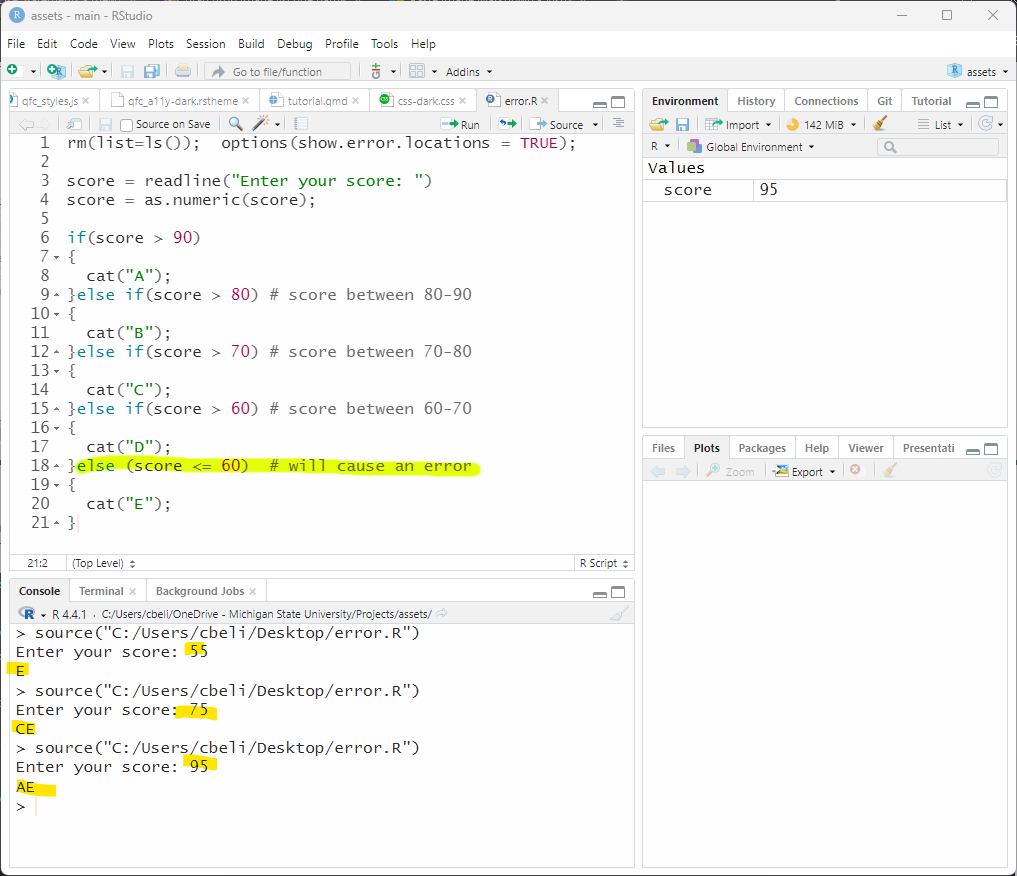
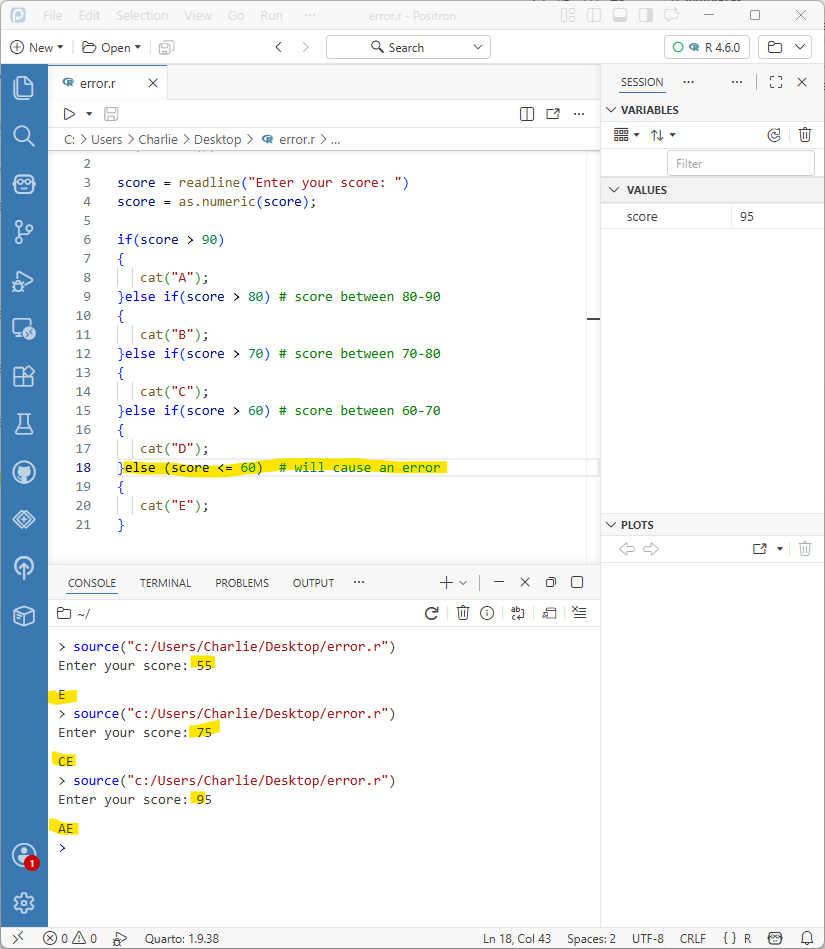
Lesson 1-09 up

diff --git a/docs/lessons-new/1-09_If_Else_Statements.html b/docs/lessons-new/1-09_If_Else_Statements.html
@@ -486,7 +486,7 @@ pre > code.sourceCode > span > a:first-child::before { text-decoration: underlin
   <ul class="collapse">
   <li><a href="#the-efficiency-of-if-else-if-structures" id="toc-the-efficiency-of-if-else-if-structures" class="nav-link" data-scroll-target="#the-efficiency-of-if-else-if-structures"><span class="header-section-number">6.1</span> The efficiency of if-else-if structures</a></li>
   </ul></li>
-  <li><a href="#the-error-or-everything-else-condition" id="toc-the-error-or-everything-else-condition" class="nav-link" data-scroll-target="#the-error-or-everything-else-condition"><span class="header-section-number">7</span> The error or everything else condition</a>
+  <li><a href="#the-error-or-everything-else-condition" id="toc-the-error-or-everything-else-condition" class="nav-link" data-scroll-target="#the-error-or-everything-else-condition"><span class="header-section-number">7</span> The error, or everything else, condition</a>
   <ul class="collapse">
   <li><a href="#error-statement-help-in-debugging" id="toc-error-statement-help-in-debugging" class="nav-link" data-scroll-target="#error-statement-help-in-debugging"><span class="header-section-number">7.1</span> Error statement help in debugging</a></li>
   </ul></li>
@@ -497,12 +497,14 @@ pre > code.sourceCode > span > a:first-child::before { text-decoration: underlin
   <li><a href="#application" id="toc-application" class="nav-link" data-scroll-target="#application"><span class="header-section-number">9</span> Application</a>
   <ul class="collapse">
   <li><a href="#questions-to-answer" id="toc-questions-to-answer" class="nav-link" data-scroll-target="#questions-to-answer"><span class="header-section-number">9.1</span> Questions to answer</a></li>
+  <li><a href="#upload-changes-to-github" id="toc-upload-changes-to-github" class="nav-link" data-scroll-target="#upload-changes-to-github"><span class="header-section-number">9.2</span> Upload changes to GitHub</a></li>
   </ul></li>
-  <li><a href="#trap-true-and-false-are-keywords-t-and-f-are-not" id="toc-trap-true-and-false-are-keywords-t-and-f-are-not" class="nav-link" data-scroll-target="#trap-true-and-false-are-keywords-t-and-f-are-not"><span class="header-section-number">10</span> Trap: TRUE and FALSE are keywords, T and F are not</a></li>
-  <li><a href="#extension-brackets-and-code-blocks" id="toc-extension-brackets-and-code-blocks" class="nav-link" data-scroll-target="#extension-brackets-and-code-blocks"><span class="header-section-number">11</span> Extension: brackets and code blocks</a></li>
-  <li><a href="#extension-skipping-brackets-in-if-else-structures" id="toc-extension-skipping-brackets-in-if-else-structures" class="nav-link" data-scroll-target="#extension-skipping-brackets-in-if-else-structures"><span class="header-section-number">12</span> Extension: Skipping brackets in if-else structures</a></li>
-  <li><a href="#trap-else-never-has-an-attached-condition" id="toc-trap-else-never-has-an-attached-condition" class="nav-link" data-scroll-target="#trap-else-never-has-an-attached-condition"><span class="header-section-number">13</span> Trap: else never has an attached condition</a></li>
-  <li><a href="#extension-programming-standards-for-if-else-statements" id="toc-extension-programming-standards-for-if-else-statements" class="nav-link" data-scroll-target="#extension-programming-standards-for-if-else-statements"><span class="header-section-number">14</span> Extension: Programming standards for if-else statements</a></li>
+  <li><a href="#extension-create-an-issue-in-github" id="toc-extension-create-an-issue-in-github" class="nav-link" data-scroll-target="#extension-create-an-issue-in-github"><span class="header-section-number">10</span> Extension: Create an issue in GitHub</a></li>
+  <li><a href="#trap-true-and-false-are-keywords-t-and-f-are-not" id="toc-trap-true-and-false-are-keywords-t-and-f-are-not" class="nav-link" data-scroll-target="#trap-true-and-false-are-keywords-t-and-f-are-not"><span class="header-section-number">11</span> Trap: TRUE and FALSE are keywords, T and F are not</a></li>
+  <li><a href="#extension-brackets-and-code-blocks" id="toc-extension-brackets-and-code-blocks" class="nav-link" data-scroll-target="#extension-brackets-and-code-blocks"><span class="header-section-number">12</span> Extension: brackets and code blocks</a></li>
+  <li><a href="#extension-skipping-brackets-in-if-else-structures" id="toc-extension-skipping-brackets-in-if-else-structures" class="nav-link" data-scroll-target="#extension-skipping-brackets-in-if-else-structures"><span class="header-section-number">13</span> Extension: Skipping brackets in if-else structures</a></li>
+  <li><a href="#trap-else-never-has-an-attached-condition" id="toc-trap-else-never-has-an-attached-condition" class="nav-link" data-scroll-target="#trap-else-never-has-an-attached-condition"><span class="header-section-number">14</span> Trap: else never has an attached condition</a></li>
+  <li><a href="#extension-programming-standards-for-if-else-statements" id="toc-extension-programming-standards-for-if-else-statements" class="nav-link" data-scroll-target="#extension-programming-standards-for-if-else-statements"><span class="header-section-number">15</span> Extension: Programming standards for if-else statements</a></li>
   </ul>
 </nav>
 </nav>
@@ -555,7 +557,7 @@ pre > code.sourceCode > span > a:first-child::before { text-decoration: underlin
 </section>
 <section id="dealing-with-false-conditions" class="level2" data-number="3">
 <h2 data-number="3" class="anchored" data-anchor-id="dealing-with-false-conditions"><span class="header-section-number">3</span> Dealing with FALSE conditions</h2>
-<p>In the last lesson we looked at execution of the <strong><em>if()</em></strong> statement and how it changes the flow of a script.&nbsp; <strong><em>if()</em></strong> statements contain a conditional statement inside the parenthesis and an attached codeblock surrounded by curly brackets ( <strong><em>{ }</em></strong> ).&nbsp; The codeblock is only executed if the conditional statement is <strong><em>TRUE</em></strong>.&nbsp;</p>
+<p>In the last lesson we looked at execution of the <strong><em>if()</em></strong> statement and how it changes the flow of a script.&nbsp; <strong><em>if()</em></strong> statements contain a conditional statement inside the parentheses and an attached codeblock surrounded by curly brackets ( <strong><em>{ }</em></strong> ).&nbsp; The codeblock is only executed if the conditional statement is <strong><em>TRUE</em></strong>.&nbsp;</p>
 <div class="code-copy-outer-scaffold"><div class="sourceCode" id="cb1"><pre class="sourceCode r code-with-copy"><code class="sourceCode r"><span id="cb1-1"><a href="#cb1-1" aria-hidden="true" tabindex="-1"></a>randomNum <span class="ot">=</span> <span class="fu">sample</span>(<span class="dv">1</span><span class="sc">:</span><span class="dv">100</span>, <span class="at">size=</span><span class="dv">1</span>);</span>
 <span id="cb1-2"><a href="#cb1-2" aria-hidden="true" tabindex="-1"></a></span>
 <span id="cb1-3"><a href="#cb1-3" aria-hidden="true" tabindex="-1"></a><span class="cf">if</span>(randomNum <span class="sc">&gt;</span> <span class="dv">50</span>)  <span class="co"># execute the attached codeblock if TRUE</span></span>
@@ -732,13 +734,13 @@ Figure&nbsp;5: The inefficient way to check opposite conditions – using only <
 <p>But there are two problems with the code above:</p>
 <ul>
 <li><p>You are executing code that you know does not need to be executed.&nbsp; <strong><em>Sunny</em></strong> and <strong><em>Not Sunny</em></strong> are mutually exclusive – there is no need for the script to check both.&nbsp; This extra check adds a little bit to the script’s execution time and this can make a difference if you are checking 100,000 values in a data frame.</p></li>
-<li><p>An <strong><em>if-else</em></strong> statement is easier to debug than two individual <strong><em>if()</em></strong> statements because you only need to debug one conditional statement – as opposed to two.</p></li>
+<li><p>An <strong><em>if-else</em></strong> statement is easier to debug than two individual <strong><em>if()</em></strong> statements because there is only one conditional statement to debug (as opposed to two).</p></li>
 </ul>
 </section>
 </section>
 <section id="adding-in-more-conditions-if-else-if-structures" class="level2" data-number="6">
 <h2 data-number="6" class="anchored" data-anchor-id="adding-in-more-conditions-if-else-if-structures"><span class="header-section-number">6</span> Adding in more conditions: if-else-if Structures</h2>
-<p>We are limited to two outcomes when using <strong><em>if-else</em></strong> structures: (a) the <strong><em>if()</em></strong> condition is <strong><em>TRUE</em></strong> or (b) The <strong><em>if()</em></strong> condition is <strong><em>FALSE</em></strong>.&nbsp; However, the examples above contain situations that could easily have more than two possible condition.&nbsp; For instance, the <strong><em>noonCondition</em></strong> can be “Sunny”, “Cloudy”, or “Rain” – and we can check for all three in an <strong><em>if-else-if</em></strong> structure.</p>
+<p>We are limited to two outcomes when using <strong><em>if-else</em></strong> structures: (a) the <strong><em>if()</em></strong> condition is <strong><em>TRUE</em></strong> or (b) The <strong><em>if()</em></strong> condition is <strong><em>FALSE</em></strong>.&nbsp; However, the examples above contain situations that could easily have more than two possible conditions.&nbsp; For instance, <strong><em>noonCondition</em></strong> can be “Sunny”, “Cloudy”, or “Rain” – and we can check for all three in an <strong><em>if-else-if</em></strong> structure.</p>
 <p>&nbsp;</p>
 <p>With an <strong><em>if-else-if</em></strong> structure you can check as many mutually exclusive situations as you want.</p>
 <div id="fig-multConditions" class="quarto-float quarto-figure quarto-figure-left anchored">
@@ -770,10 +772,12 @@ Figure&nbsp;6: Check multiple conditions using an if-else-if structure
 </section>
 </section>
 <section id="the-error-or-everything-else-condition" class="level2" data-number="7">
-<h2 data-number="7" class="anchored" data-anchor-id="the-error-or-everything-else-condition"><span class="header-section-number">7</span> The error or everything else condition</h2>
+<h2 data-number="7" class="anchored" data-anchor-id="the-error-or-everything-else-condition"><span class="header-section-number">7</span> The error, or everything else, condition</h2>
 <p>We often want to execute something for values we have not prepared for.&nbsp; For instance, a phone system might have menu options numbered <strong>1</strong> through <strong>5</strong>.&nbsp; If the user presses <strong>7</strong>, the system will usually have a message saying something like “sorry, <strong>7</strong> is not an option”.</p>
 <p>&nbsp;</p>
-<p>The problem with the script above is that it does nothing if the condition for the day is not given anywhere in the <strong><em>if-else-if</em></strong> structure (i.e., all the conditional statements are <strong>FALSE</strong>). In an <strong><em>if-else-if</em></strong> structure you cannot anticipate everything that somebody will input into a dataframe – let alone all of the errant spellings.&nbsp; To resolve this, we create what is often referred to as an <span class="hl">error condition</span><em>,</em> meaning we set up a codeblock that gets executed if none of the conditions in the <strong><em>if-else-if</em></strong> structure are <strong><em>TRUE</em></strong>.&nbsp; This error codeblock gets attached at the end to an <strong><em>else</em></strong> statement.</p>
+<p>The problem with the script above is that it does nothing if the condition for the day is not given anywhere in the <strong><em>if-else-if</em></strong> structure (i.e., all the conditional statements are <strong>FALSE</strong> <em>-</em> perhaps the condition was <strong><em>Fog</em></strong>).</p>
+<p>&nbsp;</p>
+<p>In an <strong><em>if-else-if</em></strong> structure you cannot anticipate everything that somebody will input into a dataframe – let alone all of the errant spellings.&nbsp; To resolve this, we create what is often referred to as an <span class="hl">error condition</span><em>,</em> meaning we set up a codeblock that gets executed if none of the conditions in the <strong><em>if-else-if</em></strong> structure are <strong><em>TRUE</em></strong>.&nbsp; This error codeblock gets attached at the end to an <strong><em>else</em></strong> statement.</p>
 <div id="fig-errorCondition" class="quarto-float quarto-figure quarto-figure-left anchored">
 <figure class="quarto-float quarto-float-fig figure">
 <div aria-describedby="fig-errorCondition-caption-0ceaefa1-69ba-4598-a22c-09a6ac19f8ca">
@@ -796,12 +800,12 @@ Figure&nbsp;7: Adding an error condition to the if-else-if structure
 </figcaption>
 </figure>
 </div>
-<p>Since we have an <strong><em>else</em></strong> statement at the end, there is guaranteed to be a response from the script no matter what <strong><em>noonCond</em></strong> is:</p>
+<p>The <strong><em>else</em></strong> statement guarantees a response from the script – no matter what <strong><em>noonCond</em></strong> is:</p>
 <div class="code-copy-outer-scaffold"><div class="sourceCode" id="cb13" data-tab="Console"><pre class="sourceCode r code-with-copy"><code class="sourceCode r"><span id="cb13-1"><a href="#cb13-1" aria-hidden="true" tabindex="-1"></a>Checking day <span class="dv">5</span> against multiple conditions<span class="sc">:</span></span>
 <span id="cb13-2"><a href="#cb13-2" aria-hidden="true" tabindex="-1"></a>  The condition <span class="cf">for</span> day <span class="dv">5</span>, Fog, is invalid</span></code></pre></div><button title="Copy to Clipboard" class="code-copy-button"><i class="bi"></i></button></div>
 <section id="error-statement-help-in-debugging" class="level3" data-number="7.1">
 <h3 data-number="7.1" class="anchored" data-anchor-id="error-statement-help-in-debugging"><span class="header-section-number">7.1</span> Error statement help in debugging</h3>
-<p>Adding the error statement also helps you debug your code.&nbsp; In this case, the error statement tells you that some value (Fog) does not meet any of the conditions and you can use the codeblock attached to the <strong><em>else</em></strong> statement to provide useful information about what went wrong – and perhaps suggest a fix.</p>
+<p>Adding the error statement also helps you debug your code.&nbsp; In this case, the error statement tells you that some value does not meet any of your conditions. The codeblock attached to the <strong><em>else</em></strong> statement can be used to provide useful information about what went wrong – and perhaps suggest a fix.</p>
 </section>
 </section>
 <section id="creating-number-ranges-using-if-else-structures" class="level2" data-number="8">
@@ -836,9 +840,9 @@ Figure&nbsp;8: Create number ranges with an if-else-if structure
 <span id="cb15-2"><a href="#cb15-2" aria-hidden="true" tabindex="-1"></a>  That temperature is about right <span class="cf">for</span> April<span class="sc">!</span></span></code></pre></div><button title="Copy to Clipboard" class="code-copy-button"><i class="bi"></i></button></div>
 <section id="if-else-if-statements-are-mutually-exclusive" class="level3" data-number="8.1">
 <h3 data-number="8.1" class="anchored" data-anchor-id="if-else-if-statements-are-mutually-exclusive"><span class="header-section-number">8.1</span> if-else-if statements are mutually exclusive</h3>
-<p><span class="hl">An <strong>if-else-if</strong> structure ends as soon as a condition is determined to be <strong>TRUE</strong>.</span> This means that at most one codeblock in an <strong><em>if-else-if</em></strong> structure gets executed.&nbsp; In the above example (<a href="#fig-numberRanges" class="quarto-xref">Figure&nbsp;8</a>), if the temperature is 75 (i.e., day 14), the first condition (<strong><em>highTemps[14] &gt; 70</em></strong>) is <strong><em>TRUE</em></strong> and “That is hot for April” is output.&nbsp;<span class="hl">The <strong>if-else-if</strong>&nbsp; ends here and none of the other conditions are checked.</span></p>
+<p>An <strong>if-else-if</strong> structure ends as soon as a condition is determined to be <strong>TRUE</strong>. This means that <span class="hl">at most one codeblock in an <strong><em>if-else-if</em></strong> structure gets executed</span>.&nbsp; In the above example (<a href="#fig-numberRanges" class="quarto-xref">Figure&nbsp;8</a>), if the temperature is 75 (i.e., day 14), the first condition (<strong><em>highTemps[14] &gt; 70</em></strong>) is <strong><em>TRUE</em></strong> and “That is hot for April” is output.&nbsp;The <strong>if-else-if</strong>&nbsp; ends here and none of the other conditions are checked.</p>
 <p>&nbsp;</p>
-<p>The second condition (<strong>highTemp[14] &gt; 60</strong>) would, if checked, also be <strong>TRUE</strong>. But this condition does not get checked because a condition above was already <strong>TRUE</strong> – the <strong><em>if-else-if</em></strong> structure is done executing.</p>
+<p>The second condition (<strong>highTemp[14] &gt; 60</strong>) would, if checked, also be <strong>TRUE</strong>. But this condition does not get checked because a condition above was already <strong>TRUE</strong> – the <strong><em>if-else-if</em></strong> structure stopped there.</p>
 <p>&nbsp;</p>
 <p>Again, in an <strong><em>if-else-if</em></strong> structure, only the codeblock attached to the first <strong><em>TRUE</em></strong> conditional statement gets executed<em>.</em> If none of the conditional statements are <strong><em>TRUE</em></strong> then the codeblock attached to the <strong><em>else</em></strong> statement at the end is executed.</p>
 </section>
@@ -847,7 +851,7 @@ Figure&nbsp;8: Create number ranges with an if-else-if structure
 <h2 data-number="9" class="anchored" data-anchor-id="application"><span class="header-section-number">9</span> Application</h2>
 <p>A) In comments answer: Why can I say that the fourth condition <code>else if(highTemps[3] &gt; 40)</code> in <a href="#fig-numberRanges" class="quarto-xref">Figure&nbsp;8</a> checks <strong><em>only</em></strong> for values between 41 and 50 when the condition is <code>highTemps[3] &gt; 40</code>?</p>
 <p>&nbsp;</p>
-<p>B) In comments answer: Why might it be easier to find errors in a dataset using <strong><em>if-else-if</em></strong> structures vs.&nbsp;just <strong><em>if()</em></strong> statements?</p>
+<p>B) In comments answer: Why might it be easier to find errors in a dataset containing weight values using <strong><em>if-else-if</em></strong> structures vs.&nbsp;just <strong><em>if()</em></strong> statements? Give examples.</p>
 <p>&nbsp;</p>
 <p>C) The following line randomly picks a letter from the vector and saves it to <strong><em>grade</em></strong>:</p>
 <div class="code-copy-outer-scaffold"><div class="sourceCode" id="cb16"><pre class="sourceCode r code-with-copy"><code class="sourceCode r"><span id="cb16-1"><a href="#cb16-1" aria-hidden="true" tabindex="-1"></a>  grade <span class="ot">=</span> <span class="fu">sample</span>(<span class="fu">c</span>(<span class="st">"A"</span>, <span class="st">"B"</span>, <span class="st">"C"</span>, <span class="st">"D"</span>, <span class="st">"E"</span>), <span class="at">size=</span><span class="dv">1</span>);</span></code></pre></div><button title="Copy to Clipboard" class="code-copy-button"><i class="bi"></i></button></div>
@@ -879,11 +883,6 @@ Figure&nbsp;8: Create number ranges with an if-else-if structure
 </ul>
 <p>&nbsp;</p>
 <p>E) Repeat parts C, D, and E from the application in last lesson (<a href="1-08_Conditional_Operations.html#application" target="_blank">1-08: Conditional Operations</a>) using <strong><em>if-else</em></strong> statements.&nbsp;<span class="note">Note: there are a few different ways to do this.</span></p>
-<p>&nbsp;</p>
-<p>Save the script as&nbsp;<strong><em>app1-09.r</em></strong> in your&nbsp;<strong><em>scripts</em></strong> folder and&nbsp; email your Project Folder to Charlie Belinsky at [email redacted].</p>
-<p>&nbsp;</p>
-<p><a href="1-01-RStudioProjectsSetup.html#sec-zip-folder" target="_blank">Instructions for zipping the Project Folder are here.</a></p>
-<p>&nbsp;</p>
 <p>If you have any questions regarding this application, feel free to email them to Charlie Belinsky at [email redacted].</p>
 <section id="questions-to-answer" class="level3" data-number="9.1">
 <h3 data-number="9.1" class="anchored" data-anchor-id="questions-to-answer"><span class="header-section-number">9.1</span> Questions to answer</h3>
@@ -894,26 +893,70 @@ Figure&nbsp;8: Create number ranges with an if-else-if structure
 <li><p>What are some things you would like to know more about that is related to, but not covered in, this lesson?</p></li>
 </ol>
 </section>
+<section id="upload-changes-to-github" class="level3" data-number="9.2">
+<h3 data-number="9.2" class="anchored" data-anchor-id="upload-changes-to-github"><span class="header-section-number">9.2</span> Upload changes to GitHub</h3>
+<ol type="1">
+<li><p>In <strong><em>Source Control</em></strong> tab, under <strong><em>Changes</em></strong> click ( + ): <strong><em>Stage All Changes</em></strong></p>
+<ul>
+<li>All changed files will now be listed under <strong><em>Staged Changes</em></strong></li>
+</ul></li>
+<li><p>Add a message “App1-09 finished”</p></li>
+<li><p>Click <strong><em>Commit</em></strong></p></li>
+<li><p>The Commit button will become a Sync button, click <strong><em>Sync</em></strong></p></li>
+<li><p>Email [email redacted] with the message that application 1-09 is finished <strong><em>OR</em></strong> <a href="#extension-create-an-issue-in-github">Extension: Create an issue in GitHub</a></p></li>
+</ol>
+<div id="fig-upload" class="fs quarto-float quarto-figure quarto-figure-left anchored">
+<figure class="quarto-float quarto-float-fig figure">
+<div aria-describedby="fig-upload-caption-0ceaefa1-69ba-4598-a22c-09a6ac19f8ca">
+<img src="images/R-1-01_Upload.png" class="fs img-fluid figure-img">
+</div>
+<figcaption class="quarto-float-caption-bottom quarto-float-caption quarto-float-fig" id="fig-upload-caption-0ceaefa1-69ba-4598-a22c-09a6ac19f8ca">
+Figure&nbsp;9: Upload changes to GitHub – the red circle indicates how many files that changed (in this case: 1)
+</figcaption>
+</figure>
+</div>
 </section>
-<section id="trap-true-and-false-are-keywords-t-and-f-are-not" class="level2" data-number="10">
-<h2 data-number="10" class="anchored" data-anchor-id="trap-true-and-false-are-keywords-t-and-f-are-not"><span class="header-section-number">10</span> Trap: TRUE and FALSE are keywords, T and F are not</h2>
+</section>
+<section id="extension-create-an-issue-in-github" class="level2" data-number="10">
+<h2 data-number="10" class="anchored" data-anchor-id="extension-create-an-issue-in-github"><span class="header-section-number">10</span> Extension: Create an issue in GitHub</h2>
+<ol type="1">
+<li><p>Go to your project folder (repository) on GitHub</p></li>
+<li><p>Click on <strong><em>Issues</em></strong> (top of page)</p></li>
+<li><p>Click on <strong><em>New Issue</em></strong> (green button – not pictured)</p></li>
+<li><p>Click on Setting wheel and add the instructor as an assignee (<strong><em>belinskyc</em></strong>)</p></li>
+<li><p>Put in <strong><em>title</em></strong> that the application 1-09 is finished, add anything you want to the <strong><em>description</em></strong></p></li>
+<li><p>Click <strong><em>Create</em></strong></p></li>
+</ol>
+<div id="fig-inform" class="fs quarto-float quarto-figure quarto-figure-left anchored">
+<figure class="quarto-float quarto-float-fig figure">
+<div aria-describedby="fig-inform-caption-0ceaefa1-69ba-4598-a22c-09a6ac19f8ca">
+<img src="images/R-1-01_Inform.png" class="fs img-fluid figure-img">
+</div>
+<figcaption class="quarto-float-caption-bottom quarto-float-caption quarto-float-fig" id="fig-inform-caption-0ceaefa1-69ba-4598-a22c-09a6ac19f8ca">
+Figure&nbsp;10: Informing your instructor the application is finished
+</figcaption>
+</figure>
+</div>
+</section>
+<section id="trap-true-and-false-are-keywords-t-and-f-are-not" class="level2" data-number="11">
+<h2 data-number="11" class="anchored" data-anchor-id="trap-true-and-false-are-keywords-t-and-f-are-not"><span class="header-section-number">11</span> Trap: TRUE and FALSE are keywords, T and F are not</h2>
 <p>The terms <strong><em>TRUE</em></strong> and <strong><em>FALSE</em></strong> are reserved <span class="hl">keywords</span> in R – this means that <em><strong>TRUE</strong> and</em> <strong><em>FALSE</em></strong> are predefined and cannot be used as variable names in R.</p>
 <p>&nbsp;</p>
-<p>If you try to assign a value to a “variable” named TRUE or FALSE, you will get an <span class="hl">invalid (do_set) left-hand side to assignment</span> error (<a href="#fig-keyword-error" class="quarto-xref">Figure&nbsp;9</a>).&nbsp; This is the same error you get if you try to assign a value to a number (e.g., 10 = “a”).</p>
+<p>If you try to assign a value to a “variable” named <strong><em>TRUE</em></strong> or <strong><em>FALSE</em></strong>, you will get an <span class="hl">invalid (do_set) left-hand side to assignment</span> error (<a href="#fig-keyword-error" class="quarto-xref">Figure&nbsp;11</a>).&nbsp; This is the same error you get if you try to assign a value to a number (e.g., <code>10 = "a"</code>).</p>
 <div id="fig-keyword-error" class="fs quarto-float quarto-figure quarto-figure-left anchored">
 <figure class="quarto-float quarto-float-fig figure">
 <div aria-describedby="fig-keyword-error-caption-0ceaefa1-69ba-4598-a22c-09a6ac19f8ca">
 <img src="images/R-1-09_keyword_error.png" class="fs img-fluid figure-img">
 </div>
 <figcaption class="quarto-float-caption-bottom quarto-float-caption quarto-float-fig" id="fig-keyword-error-caption-0ceaefa1-69ba-4598-a22c-09a6ac19f8ca">
-Figure&nbsp;9: Assigning a value to a keyword causes an error.
+Figure&nbsp;11: Assigning a value to a keyword causes an error.
 </figcaption>
 </figure>
 </div>
-<p>You will often see R scripts that use <strong><em>T</em></strong> and <strong><em>F</em></strong> as shortcuts for <strong><em>TRUE</em></strong> and <strong><em>FALSE</em></strong>.&nbsp; R accepts <strong><em>T</em></strong> and <strong><em>F</em></strong> as shortcuts for <strong><em>TRUE</em></strong> and <strong><em>FALS</em></strong> <span class="hl">but T and F are not keywords</span><strong><em>.</em></strong>&nbsp; This means that someone can assign a value to <strong><em>T</em></strong> or <strong><em>F</em></strong> that overrides the default <strong><em>TRUE/FALSE</em></strong> values – as done in <a href="#fig-keyword-error" class="quarto-xref">Figure&nbsp;9</a>. If this happens, using <strong><em>T</em></strong> or <strong><em>F</em></strong> as shortcuts for <strong><em>TRUE</em></strong> or <strong><em>FALSE</em></strong> would produce unexpected results.&nbsp; It is best to stick with the reserved (and protected) keywords <strong><em>TRUE</em></strong> and <strong><em>FALSE</em></strong>.</p>
+<p>You will often see R scripts that use <strong><em>T</em></strong> and <strong><em>F</em></strong> as shortcuts for <strong><em>TRUE</em></strong> and <strong><em>FALSE</em></strong>.&nbsp; R accepts <strong><em>T</em></strong> and <strong><em>F</em></strong> as shortcuts for <strong><em>TRUE</em></strong> and <strong><em>FALS</em></strong> <span class="hl">but T and F are not keywords</span><strong><em>.</em></strong>&nbsp; This means that someone can assign a value to <strong><em>T</em></strong> or <strong><em>F</em></strong> that overrides the default <strong><em>TRUE/FALSE</em></strong> values – as done in <a href="#fig-keyword-error" class="quarto-xref">Figure&nbsp;11</a>. If this happens, using <strong><em>T</em></strong> or <strong><em>F</em></strong> as shortcuts for <strong><em>TRUE</em></strong> or <strong><em>FALSE</em></strong> would produce unexpected results.&nbsp; It is best to stick with the reserved (and protected) keywords <strong><em>TRUE</em></strong> and <strong><em>FALSE</em></strong>.</p>
 </section>
-<section id="extension-brackets-and-code-blocks" class="level2" data-number="11">
-<h2 data-number="11" class="anchored" data-anchor-id="extension-brackets-and-code-blocks"><span class="header-section-number">11</span> Extension: brackets and code blocks</h2>
+<section id="extension-brackets-and-code-blocks" class="level2" data-number="12">
+<h2 data-number="12" class="anchored" data-anchor-id="extension-brackets-and-code-blocks"><span class="header-section-number">12</span> Extension: brackets and code blocks</h2>
 <p>A codeblock enclosed by curly brackets <strong><em>{ }</em></strong> usually follows an <strong><em>if()</em></strong> statement.&nbsp; The brackets designate the start and end of the code block and R does not care how the brackets are placed in code – as long as the order is correct.</p>
 <p>&nbsp;</p>
 <p>The following four code-blocks all execute exactly the same in R:</p>
@@ -946,8 +989,8 @@ Figure&nbsp;9: Assigning a value to a keyword causes an error.
 <span id="cb21-7"><a href="#cb21-7" aria-hidden="true" tabindex="-1"></a><span class="fu">cat</span>(<span class="st">"You have your whole life ahead of you!!"</span>);     «}»                                            </span></code></pre></div><button title="Copy to Clipboard" class="code-copy-button"><i class="bi"></i></button></div>
 <p>All the above code blocks are valid.&nbsp; R just looks for a start and end bracket and executes everything in between – it completely ignores the spaces in between.&nbsp; The decision on where to place the brackets has to do with coding standards and viewability.&nbsp; The first two code blocks above are the most commonly accepted standards and your code should use one of these two methods.</p>
 </section>
-<section id="extension-skipping-brackets-in-if-else-structures" class="level2" data-number="12">
-<h2 data-number="12" class="anchored" data-anchor-id="extension-skipping-brackets-in-if-else-structures"><span class="header-section-number">12</span> Extension: Skipping brackets in if-else structures</h2>
+<section id="extension-skipping-brackets-in-if-else-structures" class="level2" data-number="13">
+<h2 data-number="13" class="anchored" data-anchor-id="extension-skipping-brackets-in-if-else-structures"><span class="header-section-number">13</span> Extension: Skipping brackets in if-else structures</h2>
 <p>You will often see <strong><em>if-else</em></strong> statements with no curly brackets.&nbsp; This only works if <span class="hl">there is only one command</span> attached to the <strong><em>if()</em></strong> and one command attached to the <strong><em>else</em></strong>.</p>
 <div class="code-copy-outer-scaffold"><div class="sourceCode" id="cb22"><pre class="sourceCode r code-with-copy"><code class="sourceCode r"><span id="cb22-1"><a href="#cb22-1" aria-hidden="true" tabindex="-1"></a><span class="fu">rm</span>(<span class="at">list=</span><span class="fu">ls</span>()); </span>
 <span id="cb22-2"><a href="#cb22-2" aria-hidden="true" tabindex="-1"></a></span>
@@ -987,13 +1030,13 @@ Figure&nbsp;9: Assigning a value to a keyword causes an error.
 <img src="images/R-1-09_unexpectedElse.png" class="fs img-fluid figure-img">
 </div>
 <figcaption class="quarto-float-caption-bottom quarto-float-caption quarto-float-fig" id="fig-unexpectedElse-caption-0ceaefa1-69ba-4598-a22c-09a6ac19f8ca">
-Figure&nbsp;10: Unexpected else error caused by not using curly brackets in if-else structures.
+Figure&nbsp;12: Unexpected else error caused by not using curly brackets in if-else structures.
 </figcaption>
 </figure>
 </div>
 </section>
-<section id="trap-else-never-has-an-attached-condition" class="level2" data-number="13">
-<h2 data-number="13" class="anchored" data-anchor-id="trap-else-never-has-an-attached-condition"><span class="header-section-number">13</span> Trap: else never has an attached condition</h2>
+<section id="trap-else-never-has-an-attached-condition" class="level2" data-number="14">
+<h2 data-number="14" class="anchored" data-anchor-id="trap-else-never-has-an-attached-condition"><span class="header-section-number">14</span> Trap: else never has an attached condition</h2>
 <p>A common mistake for people new to programming is to treat <strong><em>else</em></strong> like an <strong><em>if()</em></strong> or an <strong><em>else if()</em></strong> and attach a condition to it.&nbsp; The codeblock attached to the <strong><em>else</em></strong> statement is supposed to be executed <span class="hl">if all other conditional statements in the <strong><em>if-else-if</em></strong> structure fail</span>.</p>
 <div class="code-copy-outer-scaffold"><div class="sourceCode" id="cb25"><pre class="sourceCode r code-with-copy"><code class="sourceCode r"><span id="cb25-1"><a href="#cb25-1" aria-hidden="true" tabindex="-1"></a><span class="fu">rm</span>(<span class="at">list=</span><span class="fu">ls</span>());</span>
 <span id="cb25-2"><a href="#cb25-2" aria-hidden="true" tabindex="-1"></a> </span>
@@ -1012,7 +1055,7 @@ Figure&nbsp;10: Unexpected else error caused by not using curly brackets in if-e
 <span id="cb25-15"><a href="#cb25-15" aria-hidden="true" tabindex="-1"></a>}<span class="cf">else</span> <span class="cf">if</span>(score <span class="sc">&gt;</span> <span class="dv">60</span>) <span class="co"># score between 60-70</span></span>
 <span id="cb25-16"><a href="#cb25-16" aria-hidden="true" tabindex="-1"></a>{ </span>
 <span id="cb25-17"><a href="#cb25-17" aria-hidden="true" tabindex="-1"></a>   <span class="fu">cat</span>(<span class="st">"D"</span>);</span>
-<span id="cb25-18"><a href="#cb25-18" aria-hidden="true" tabindex="-1"></a>}<span class="cf">else</span> (score <span class="sc">&lt;=</span> <span class="dv">60</span>)  <span class="co"># will cause an error</span></span>
+<span id="cb25-18"><a href="#cb25-18" aria-hidden="true" tabindex="-1"></a>}<span class="cf">else</span> (score <span class="sc">&lt;=</span> <span class="dv">60</span>)  «<span class="co"># will cause an error»</span></span>
 <span id="cb25-19"><a href="#cb25-19" aria-hidden="true" tabindex="-1"></a>{                 </span>
 <span id="cb25-20"><a href="#cb25-20" aria-hidden="true" tabindex="-1"></a>   <span class="fu">cat</span>(<span class="st">"E"</span>);</span>
 <span id="cb25-21"><a href="#cb25-21" aria-hidden="true" tabindex="-1"></a>}</span></code></pre></div><button title="Copy to Clipboard" class="code-copy-button"><i class="bi"></i></button></div>
@@ -1023,11 +1066,11 @@ Figure&nbsp;10: Unexpected else error caused by not using curly brackets in if-e
 <img src="images/R-1-09_ElseWithConditionError.png" class="fs img-fluid figure-img">
 </div>
 <figcaption class="quarto-float-caption-bottom quarto-float-caption quarto-float-fig" id="fig-else-condition-error-caption-0ceaefa1-69ba-4598-a22c-09a6ac19f8ca">
-Figure&nbsp;11: Putting a condition on an else causes an error
+Figure&nbsp;13: Putting a condition on an else causes an error
 </figcaption>
 </figure>
 </div>
-<p>What happens is that the errant condition <strong><em>(score &lt;= 60)</em></strong> was attached to the else instead of the codeblock. Since the codeblock below was was detached from the <strong><em>else</em></strong> statement, it execute without condition (i.e., all the time).</p>
+<p>What happens is that the errant condition <strong><em>(score &lt;= 60)</em></strong> was attached to the <strong><em>else</em></strong> instead of the codeblock. Since the codeblock below was was detached from the <strong><em>else</em></strong> statement, it execute without condition (i.e., it executes everytime).</p>
 <div class="code-copy-outer-scaffold"><div class="sourceCode" id="cb26"><pre class="sourceCode r code-with-copy"><code class="sourceCode r"><span id="cb26-1"><a href="#cb26-1" aria-hidden="true" tabindex="-1"></a>{                 </span>
 <span id="cb26-2"><a href="#cb26-2" aria-hidden="true" tabindex="-1"></a>   <span class="fu">cat</span>(<span class="st">"E"</span>);</span>
 <span id="cb26-3"><a href="#cb26-3" aria-hidden="true" tabindex="-1"></a>}</span></code></pre></div><button title="Copy to Clipboard" class="code-copy-button"><i class="bi"></i></button></div>
@@ -1055,8 +1098,8 @@ Figure&nbsp;11: Putting a condition on an else causes an error
 <span id="cb27-21"><a href="#cb27-21" aria-hidden="true" tabindex="-1"></a>}</span></code></pre></div><button title="Copy to Clipboard" class="code-copy-button"><i class="bi"></i></button></div>
 <p>Now the <strong><em>else</em></strong> will execute only when all other conditions fail.&nbsp; In other words, it will execute when <strong><em>score</em></strong> is less than or equal to <strong><em>60</em></strong></p>
 </section>
-<section id="extension-programming-standards-for-if-else-statements" class="level2" data-number="14">
-<h2 data-number="14" class="anchored" data-anchor-id="extension-programming-standards-for-if-else-statements"><span class="header-section-number">14</span> Extension: Programming standards for if-else statements</h2>
+<section id="extension-programming-standards-for-if-else-statements" class="level2" data-number="15">
+<h2 data-number="15" class="anchored" data-anchor-id="extension-programming-standards-for-if-else-statements"><span class="header-section-number">15</span> Extension: Programming standards for if-else statements</h2>
 <p>Neither <a href="#fig-structure" class="quarto-xref">Figure&nbsp;1</a> or <a href="#fig-commonStructure" class="quarto-xref">Figure&nbsp;2</a> is the programming standard for coding an <strong><em>if-else</em></strong> structure. The two most common methods put <strong><em>else</em></strong> on a line by itself either like this:</p>
 <div class="code-copy-outer-scaffold"><div class="sourceCode" id="cb28"><pre class="sourceCode r code-with-copy"><code class="sourceCode r"><span id="cb28-1"><a href="#cb28-1" aria-hidden="true" tabindex="-1"></a><span class="cf">if</span>(randomNum2 <span class="sc">&gt;</span> <span class="dv">50</span>) </span>
 <span id="cb28-2"><a href="#cb28-2" aria-hidden="true" tabindex="-1"></a>{ </span>